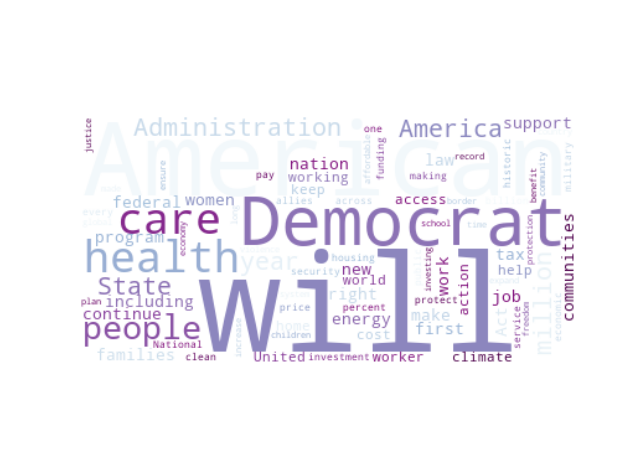
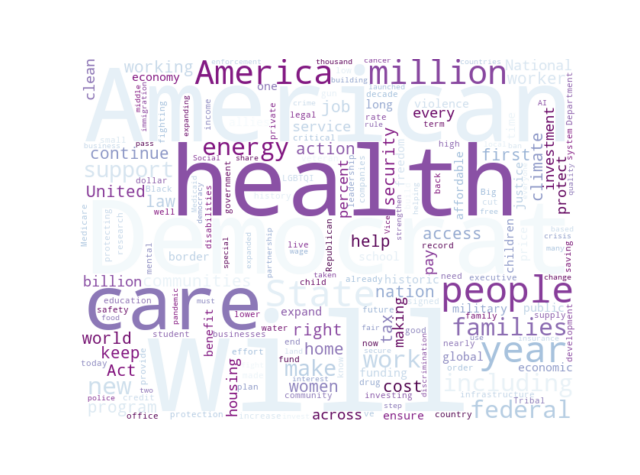
Add files via upload

Changed region(s): [[0.125, 0.1179, 0.9062, 0.8842]]

diff --git a/2024_party_platform_word_cloud.py b/2024_party_platform_word_cloud.py
@@ -21,7 +21,7 @@ with pdfplumber.open(filename) as pdf:
 		all_content += paragraphs
 		
 single_letters = ["A", "B", "C", "D", "E", "F", "G", "H", "J", "K", "L", "M", "N", "O", "P", "Q", "R", "S", "T", "U", "V", "W", "X", "Y", "S"]
-odd_fragments_and_common_terms = ["RE", "ll", "PRESIDENT", "CONGRESS"] 
+odd_fragments_and_common_terms = ["RE", "ll", "PRESIDENT", "CONGRESS", "ADMINISTRATION"]
 past_and_present_candidates = ["BIDEN", "HARRIS", "TRUMP"]
 frequent_numbers = list()
 
@@ -34,7 +34,7 @@ stop_words = single_letters + odd_fragments_and_common_terms + past_and_present_
 # Republican: RgDy
 print("Word cloud color map: BuPu or RdGy?\n")
 color_map = input()
-wordcloud = WordCloud(min_font_size=7, stopwords=stop_words, background_color="white", mode="RGB", relative_scaling=0, collocations=False, colormap=color_map, random_state=42).generate(all_content)
+wordcloud = WordCloud(width=650, height=475, min_font_size=7, stopwords=stop_words, background_color="white", mode="RGB", relative_scaling=0, collocations=False, colormap=color_map, random_state=42).generate(all_content)
 
 plt.imshow(wordcloud, interpolation='bilinear')
 plt.axis("off")
